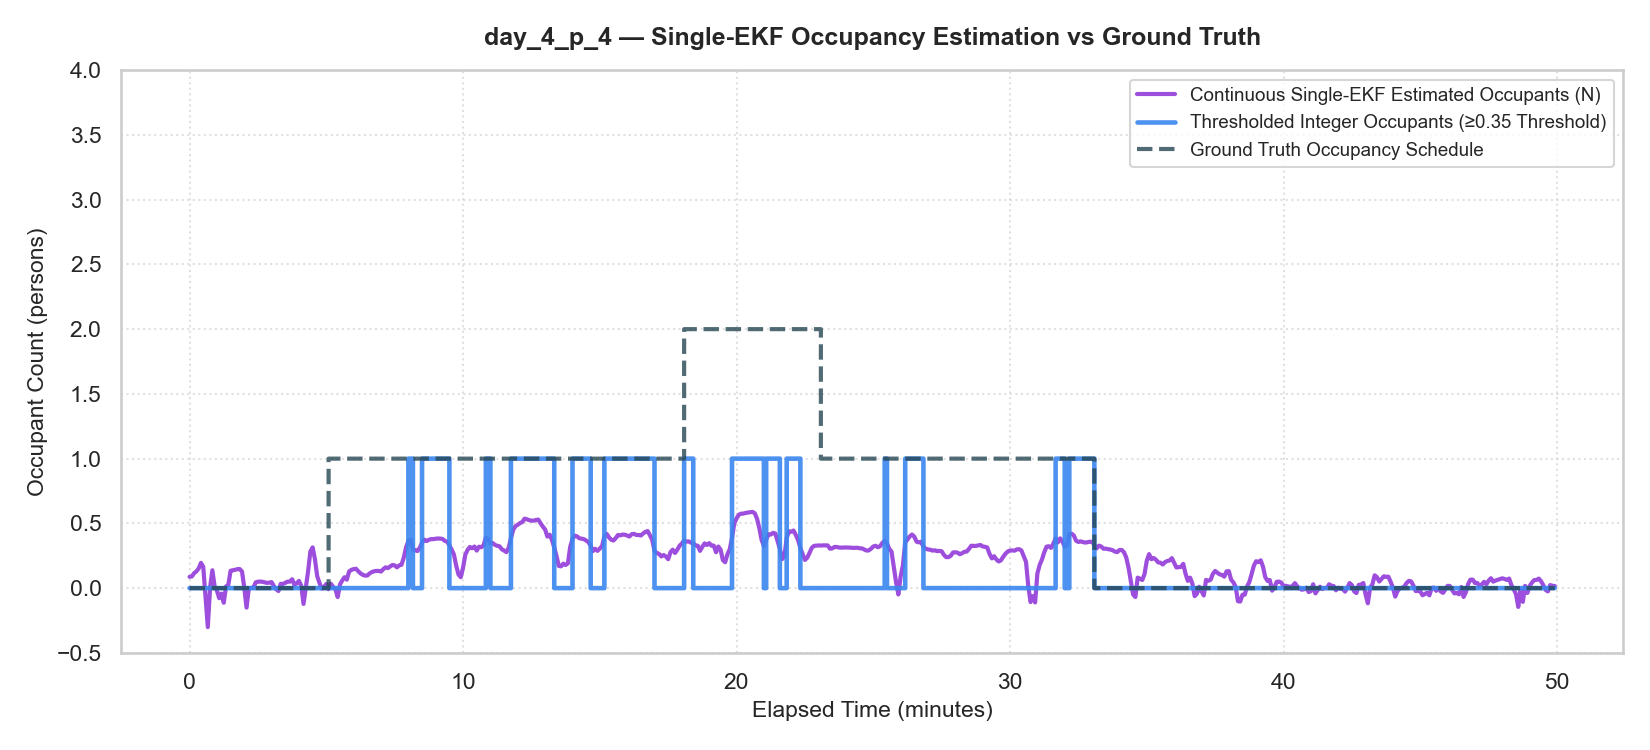
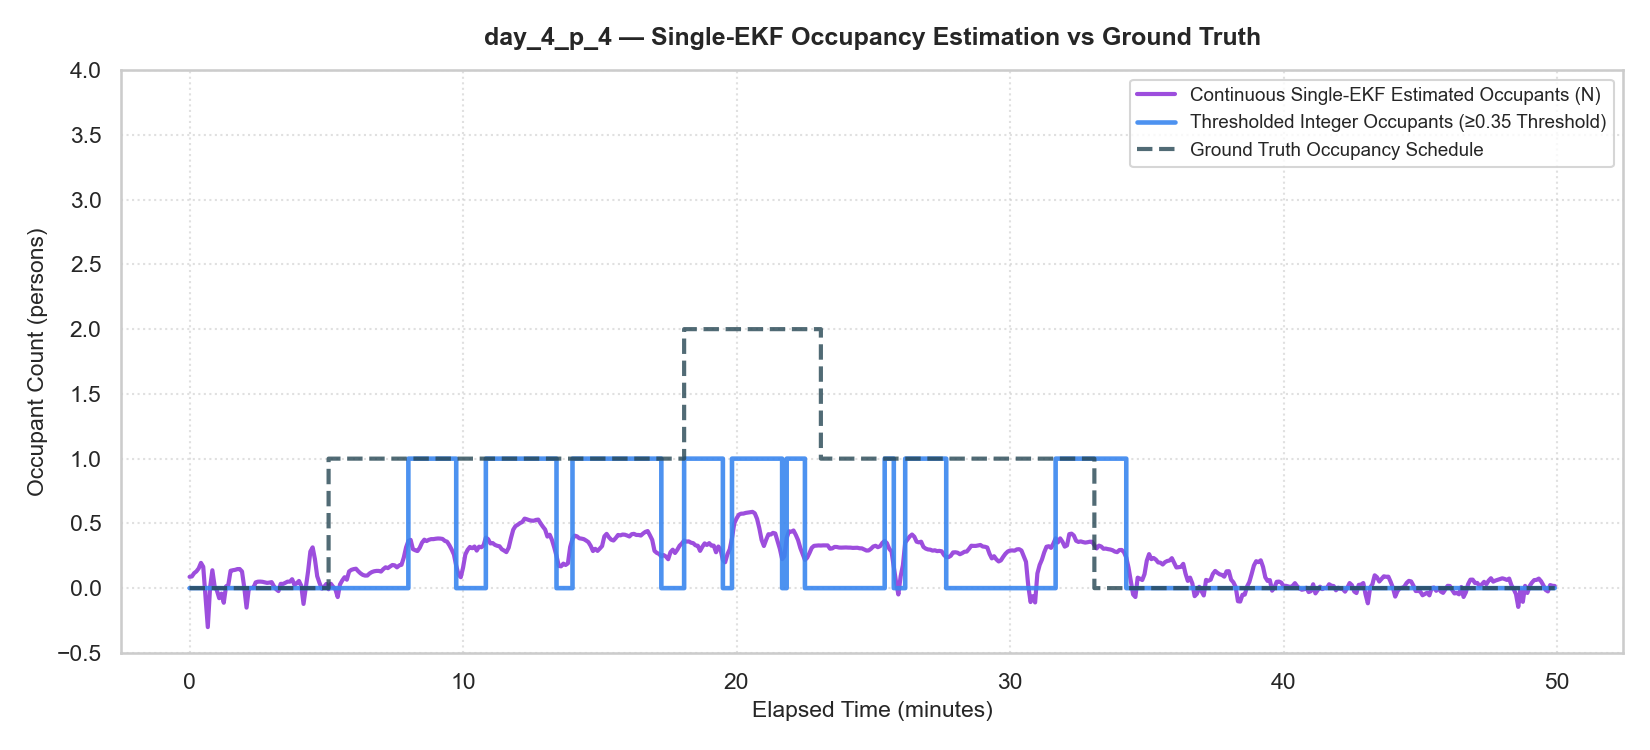
occupancy integer estimation hysteresis thresholding

Changed region(s): [[0.2473, 0.6133, 0.4945, 0.7973], [0.5255, 0.6133, 0.5873, 0.7973], [0.6182, 0.6133, 0.68, 0.7973]]

diff --git a/EKF/ekf_evaluator.py b/EKF/ekf_evaluator.py
@@ -9,10 +9,44 @@ exact integer accuracy (%), tolerance accuracy (+-1 person), and binary F1-score
 import numpy as np
 import pandas as pd
 
+def apply_hysteresis_threshold(N_est, tau_base=0.35, deadband=0.10):
+    """
+    Applies Hysteresis (Schmitt Trigger) thresholding to continuous occupancy estimate N_est.
+    - Upper Trigger: N_est >= k + tau_base -> steps UP to k+1
+    - Lower Trigger: N_est < k + tau_base - deadband -> steps DOWN to k
+    Prevents high-frequency threshold chatter/flickering.
+    """
+    N_est = np.asarray(N_est)
+    n_disc = np.zeros(len(N_est), dtype=float)
+    
+    current_state = 0
+    tau_high = tau_base
+    tau_low = max(0.05, tau_base - deadband)
+    
+    for i in range(len(N_est)):
+        val = N_est[i]
+        if current_state == 0:
+            if val >= tau_high:
+                current_state = int(np.floor(val + (1.0 - tau_base)))
+                if current_state < 1:
+                    current_state = 1
+        else:
+            drop_level = float(current_state - 1) + tau_low
+            if val < drop_level:
+                current_state = int(np.maximum(0, np.floor(val + (1.0 - tau_low))))
+            else:
+                climb_level = float(current_state) + tau_high
+                if val >= climb_level:
+                    current_state = int(np.floor(val + (1.0 - tau_base)))
+                    
+        n_disc[i] = float(current_state)
+        
+    return n_disc
+
 def optimize_threshold(N_occ_est, N_gt, tau_min=0.10, tau_max=0.90, step=0.02):
     """
     Automated Parameter-Free Grid Search Optimizer for Decision Threshold tau*.
-    Finds tau* in [tau_min, tau_max] that minimizes MAE(N_disc(tau), N_gt).
+    Finds tau* in [tau_min, tau_max] that minimizes MAE(N_disc(tau), N_gt) with Hysteresis.
     """
     N_occ_est = np.asarray(N_occ_est)
     N_gt = np.asarray(N_gt)
@@ -23,7 +57,7 @@ def optimize_threshold(N_occ_est, N_gt, tau_min=0.10, tau_max=0.90, step=0.02):
     best_acc = -1.0
     
     for tau in threshold_grid:
-        n_disc = np.maximum(0.0, np.floor(N_occ_est + (1.0 - tau)))
+        n_disc = apply_hysteresis_threshold(N_occ_est, tau_base=tau, deadband=0.10)
         mae = np.mean(np.abs(n_disc - N_gt))
         acc = np.mean(n_disc == N_gt) * 100.0
         
@@ -50,13 +84,13 @@ def compute_occupancy_metrics(N_occ_est, N_gt, tau=None):
     mae_cont  = float(np.mean(np.abs(N_occ_est - N_gt)))
     peak_err  = float(abs(np.max(N_occ_est) - np.max(N_gt)))
     
-    # ── Threshold Optimization / Discretization ────────────────────────────────
+    # ── Threshold Optimization / Hysteresis Discretization ────────────────────
     if tau is None:
         tau_opt = optimize_threshold(N_occ_est, N_gt)
     else:
         tau_opt = float(tau)
         
-    N_disc = np.maximum(0.0, np.floor(N_occ_est + (1.0 - tau_opt)))
+    N_disc = apply_hysteresis_threshold(N_occ_est, tau_base=tau_opt, deadband=0.10)
     
     # ── Discretized Metrics ────────────────────────────────────────────────────
     acc_exact = float(np.mean(N_disc == N_gt) * 100.0)

diff --git a/EKF/test_rig_dataset_ekf/test_rig_single_ekf/test_rig_single_ekf.py b/EKF/test_rig_dataset_ekf/test_rig_single_ekf/test_rig_single_ekf.py
@@ -235,6 +235,8 @@ def run_ekf_on_dataset(df):
 if __name__ == "__main__":
     SCRIPT_DIR = os.path.dirname(os.path.abspath(__file__))
     STUDIO_DIR = os.path.abspath(os.path.join(SCRIPT_DIR, "..", "..", ".."))
+    sys.path.append(os.path.abspath(os.path.join(SCRIPT_DIR, "..", "..")))
+    import ekf_evaluator
 
     CLEAN_DATA_DIR = os.path.join(STUDIO_DIR, "Experimental_Rig_Calibration", "sensor_readings", "cleaned", "with_occ")
     PLOTS_ROOT_DIR = os.path.join(SCRIPT_DIR, "plots")
@@ -307,8 +309,8 @@ if __name__ == "__main__":
         plt.savefig(plot1_path, dpi=150)
         plt.close()
 
-        # ── PLOT 2: OCCUPANCY RECOVERY VS GROUND TRUTH ─────────────────────────
-        n_disc = np.maximum(0.0, np.floor(N_occ_est + (1.0 - 0.35)))
+        import ekf_evaluator
+        n_disc = ekf_evaluator.apply_hysteresis_threshold(N_occ_est, tau_base=0.35, deadband=0.10)
 
         fig, ax = plt.subplots(figsize=(11, 5))
         ax.plot(t_min, N_occ_est, color=COLOR_PURPLE, linestyle="-", linewidth=2.0, label="Continuous Single-EKF Estimated Occupants (N)")

diff --git a/EKF/energyplus_calibrated_idf_ekf/ep_dual_ekf/ep_dual_ekf.py b/EKF/energyplus_calibrated_idf_ekf/ep_dual_ekf/ep_dual_ekf.py
@@ -38,6 +38,8 @@ COLOR_MAGENTA = "#6B2D5C"  # Dark Magenta
 SCRIPT_DIR = os.path.dirname(os.path.abspath(__file__))
 EP_DIR = os.path.dirname(SCRIPT_DIR)
 STUDIO_DIR = os.path.abspath(os.path.join(EP_DIR, "..", ".."))
+sys.path.append(os.path.abspath(os.path.join(SCRIPT_DIR, "..", "..")))
+import ekf_evaluator
 
 DAY3_DIR = os.path.join(STUDIO_DIR, "Experimental_Rig_Calibration", "sensor_readings", "with_occ", "Day_3")
 DAY4_DIR = os.path.join(STUDIO_DIR, "Experimental_Rig_Calibration", "sensor_readings", "with_occ", "Day_4")
@@ -386,7 +388,8 @@ if __name__ == "__main__":
 
         n_gt = get_ground_truth_occupancy(df, base_name)
 
-        n_disc = np.maximum(0.0, np.floor(N_occ_est + (1.0 - 0.35)))
+        import ekf_evaluator
+        n_disc = ekf_evaluator.apply_hysteresis_threshold(N_occ_est, tau_base=0.35, deadband=0.10)
 
         # ── PLOT 1: STATES (Tz, RHz, CO2) ────────────────────────────────────
         fig, (ax1, ax2, ax3) = plt.subplots(3, 1, figsize=(11, 10), sharex=True)

diff --git a/EKF/test_rig_dataset_ekf/test_rig_dual_ekf/test_rig_dual_ekf.py b/EKF/test_rig_dataset_ekf/test_rig_dual_ekf/test_rig_dual_ekf.py
@@ -43,6 +43,8 @@ COLOR_MAGENTA = "#6B2D5C"  # Dark Magenta
 SCRIPT_DIR = os.path.dirname(os.path.abspath(__file__))
 TEST_RIG_DIR = os.path.dirname(SCRIPT_DIR)
 STUDIO_DIR = os.path.abspath(os.path.join(TEST_RIG_DIR, "..", ".."))
+sys.path.append(os.path.abspath(os.path.join(SCRIPT_DIR, "..", "..")))
+import ekf_evaluator
 
 DAY3_DIR = os.path.join(STUDIO_DIR, "Experimental_Rig_Calibration", "sensor_readings", "with_occ", "Day_3")
 DAY4_DIR = os.path.join(STUDIO_DIR, "Experimental_Rig_Calibration", "sensor_readings", "with_occ", "Day_4")
@@ -423,7 +425,8 @@ if __name__ == "__main__":
 
         n_gt = get_ground_truth_occupancy(df, base_name)
 
-        n_disc = np.maximum(0.0, np.floor(N_occ_est + (1.0 - 0.35)))
+        import ekf_evaluator
+        n_disc = ekf_evaluator.apply_hysteresis_threshold(N_occ_est, tau_base=0.35, deadband=0.10)
 
         # ── PLOT 1: 3-SUBPLOT ENVIRONMENTAL STATES ───────────────────────────
         fig, (ax1, ax2, ax3) = plt.subplots(3, 1, figsize=(11, 10), sharex=True)

diff --git a/EKF/energyplus_calibrated_idf_ekf/ep_single_ekf/ep_single_ekf.py b/EKF/energyplus_calibrated_idf_ekf/ep_single_ekf/ep_single_ekf.py
@@ -40,6 +40,8 @@ COLOR_MAGENTA = "#6B2D5C"  # Dark Magenta
 SCRIPT_DIR = os.path.dirname(os.path.abspath(__file__))
 EP_DIR = os.path.dirname(SCRIPT_DIR)
 STUDIO_DIR = os.path.abspath(os.path.join(EP_DIR, "..", ".."))
+sys.path.append(os.path.abspath(os.path.join(SCRIPT_DIR, "..", "..")))
+import ekf_evaluator
 
 DAY3_DIR = os.path.join(STUDIO_DIR, "Experimental_Rig_Calibration", "sensor_readings", "with_occ", "Day_3")
 DAY4_DIR = os.path.join(STUDIO_DIR, "Experimental_Rig_Calibration", "sensor_readings", "with_occ", "Day_4")
@@ -298,7 +300,8 @@ if __name__ == "__main__":
 
         n_gt = get_ground_truth_occupancy(df, base_name)
 
-        n_disc = np.maximum(0.0, np.floor(N_occ_est + (1.0 - 0.35)))
+        import ekf_evaluator
+        n_disc = ekf_evaluator.apply_hysteresis_threshold(N_occ_est, tau_base=0.35, deadband=0.10)
 
         # ── PLOT 1: 3-SUBPLOT ENVIRONMENTAL STATES ───────────────────────────
         fig, (ax1, ax2, ax3) = plt.subplots(3, 1, figsize=(11, 10), sharex=True)
